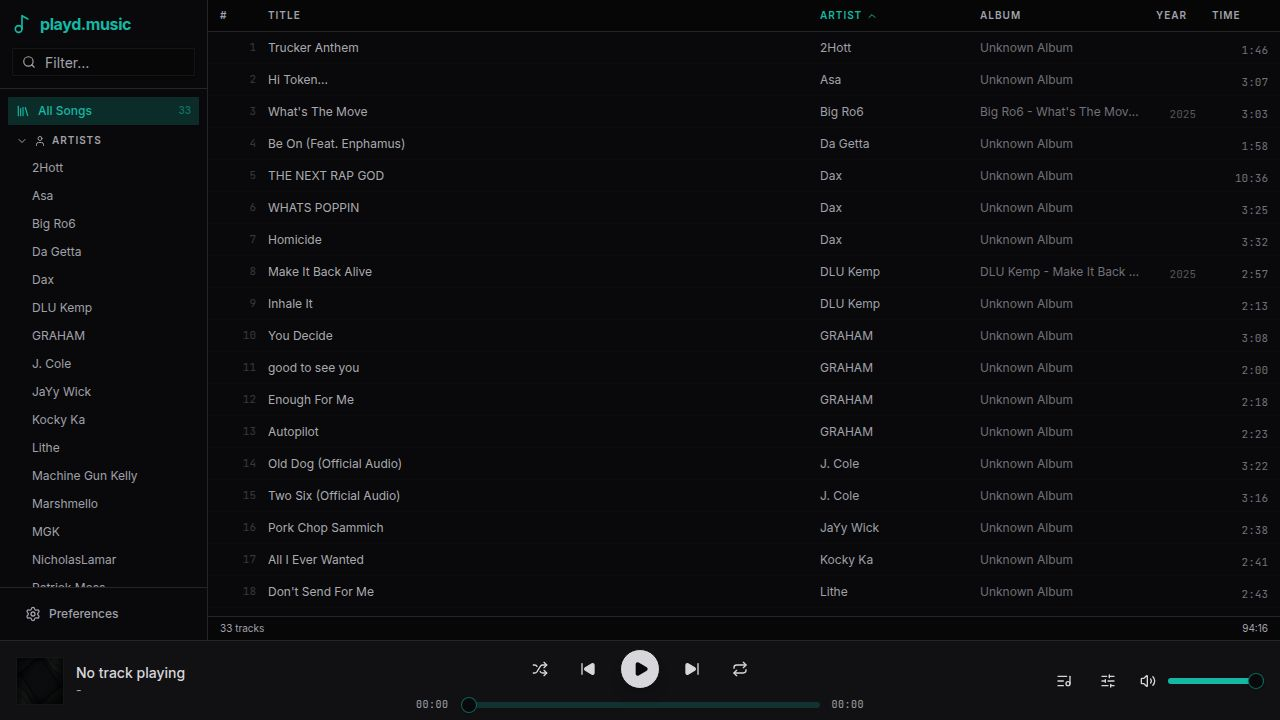
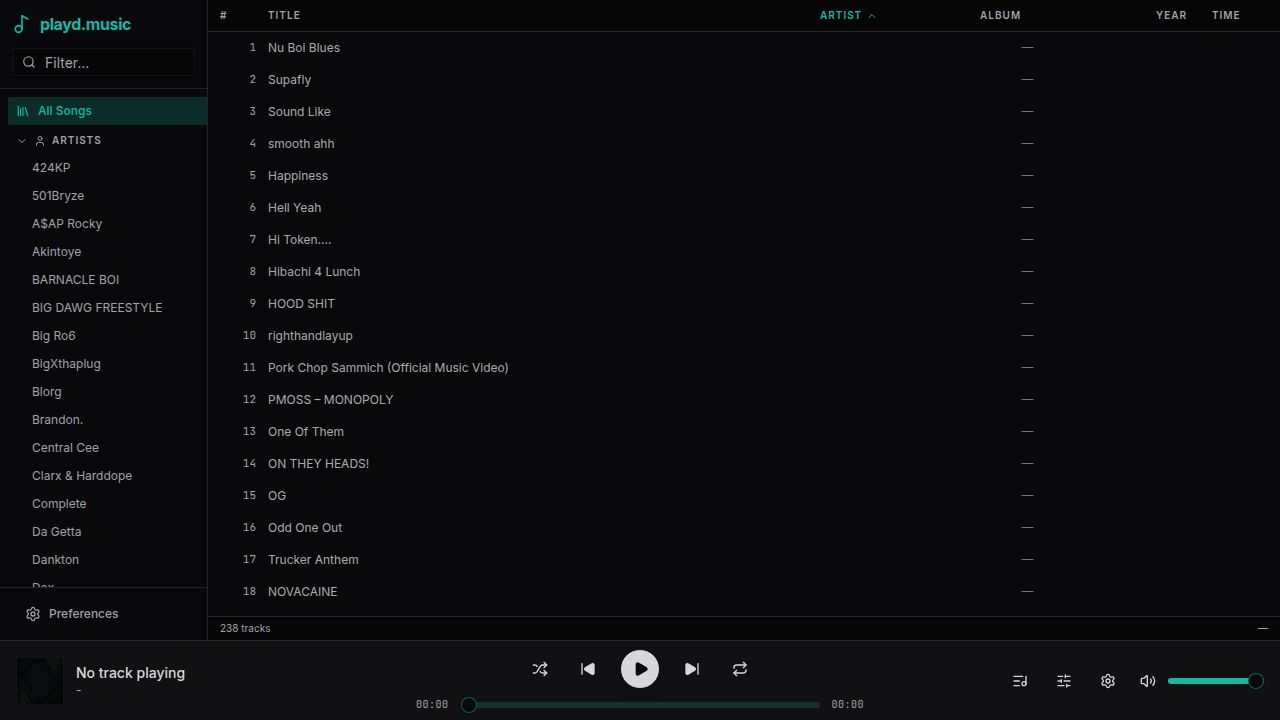
Improve metadata parsing for audio files
Switch from `mm.parseBlob` to `mm.parseBuffer` for more robust audio file metadata extraction, add detailed error logging, and set a default "Unknown Album" fallback.

Replit-Commit-Author: Agent
Replit-Commit-Session-Id: 49d4afc1-5f6d-4723-a287-46d18dd62900
Replit-Commit-Checkpoint-Type: full_checkpoint
Replit-Commit-Event-Id: 17835b02-5cc6-4c35-bf59-2da11e73dc88
Replit-Commit-Screenshot-Url: https://storage.googleapis.com/screenshot-production-us-central1/c8654ac4-89ed-44e3-87da-7c9cbafce778/49d4afc1-5f6d-4723-a287-46d18dd62900/Xo4HSy2
Replit-Helium-Checkpoint-Created: true

diff --git a/artifacts/audio-player/src/hooks/use-file-system.ts b/artifacts/audio-player/src/hooks/use-file-system.ts
@@ -193,8 +193,14 @@ export function useFileSystem() {
         const fileMeta = parseFilenameMetadata(fileName);
 
         try {
-          const blobToScan = await withMimeType(file);
-          const metadata = await mm.parseBlob(blobToScan, { duration: true, skipCovers: false });
+          const arrayBuffer = await file.arrayBuffer();
+          const uint8Array = new Uint8Array(arrayBuffer);
+          const mime = await detectMimeType(file);
+          const metadata = await mm.parseBuffer(
+            uint8Array,
+            { mimeType: mime || file.type || undefined, path: file.name, size: file.size },
+            { duration: true, skipCovers: false }
+          );
 
           // Album art → IndexedDB only (not sent to server)
           if (metadata.common.picture?.length) {
@@ -242,12 +248,13 @@ export function useFileSystem() {
             albumArtDataUrl: null,
             source: 'local',
           });
-        } catch {
+        } catch (err) {
           // Metadata parse failed — fall back entirely to filename parsing.
+          console.warn(`[playd] metadata parse failed for "${fileName}":`, err);
           tracks.push({
             title: fileMeta.title || fileName,
             artist: fileMeta.artist || '',
-            album: '',
+            album: 'Unknown Album',
             year: null,
             genre: null,
             duration: 0,
